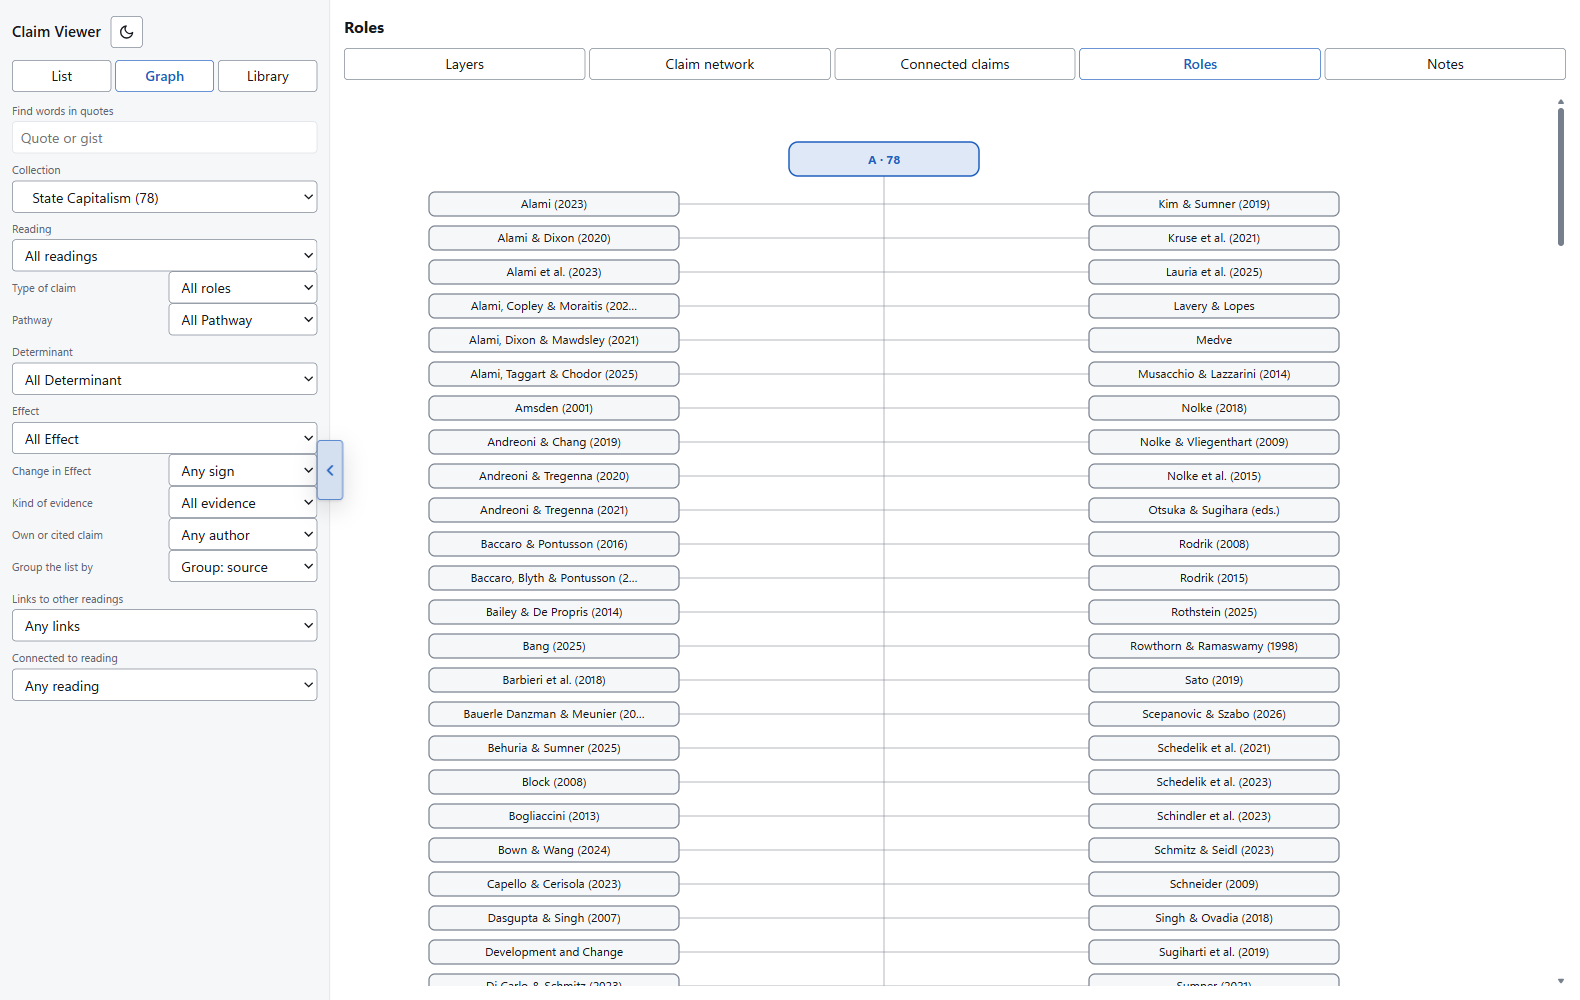
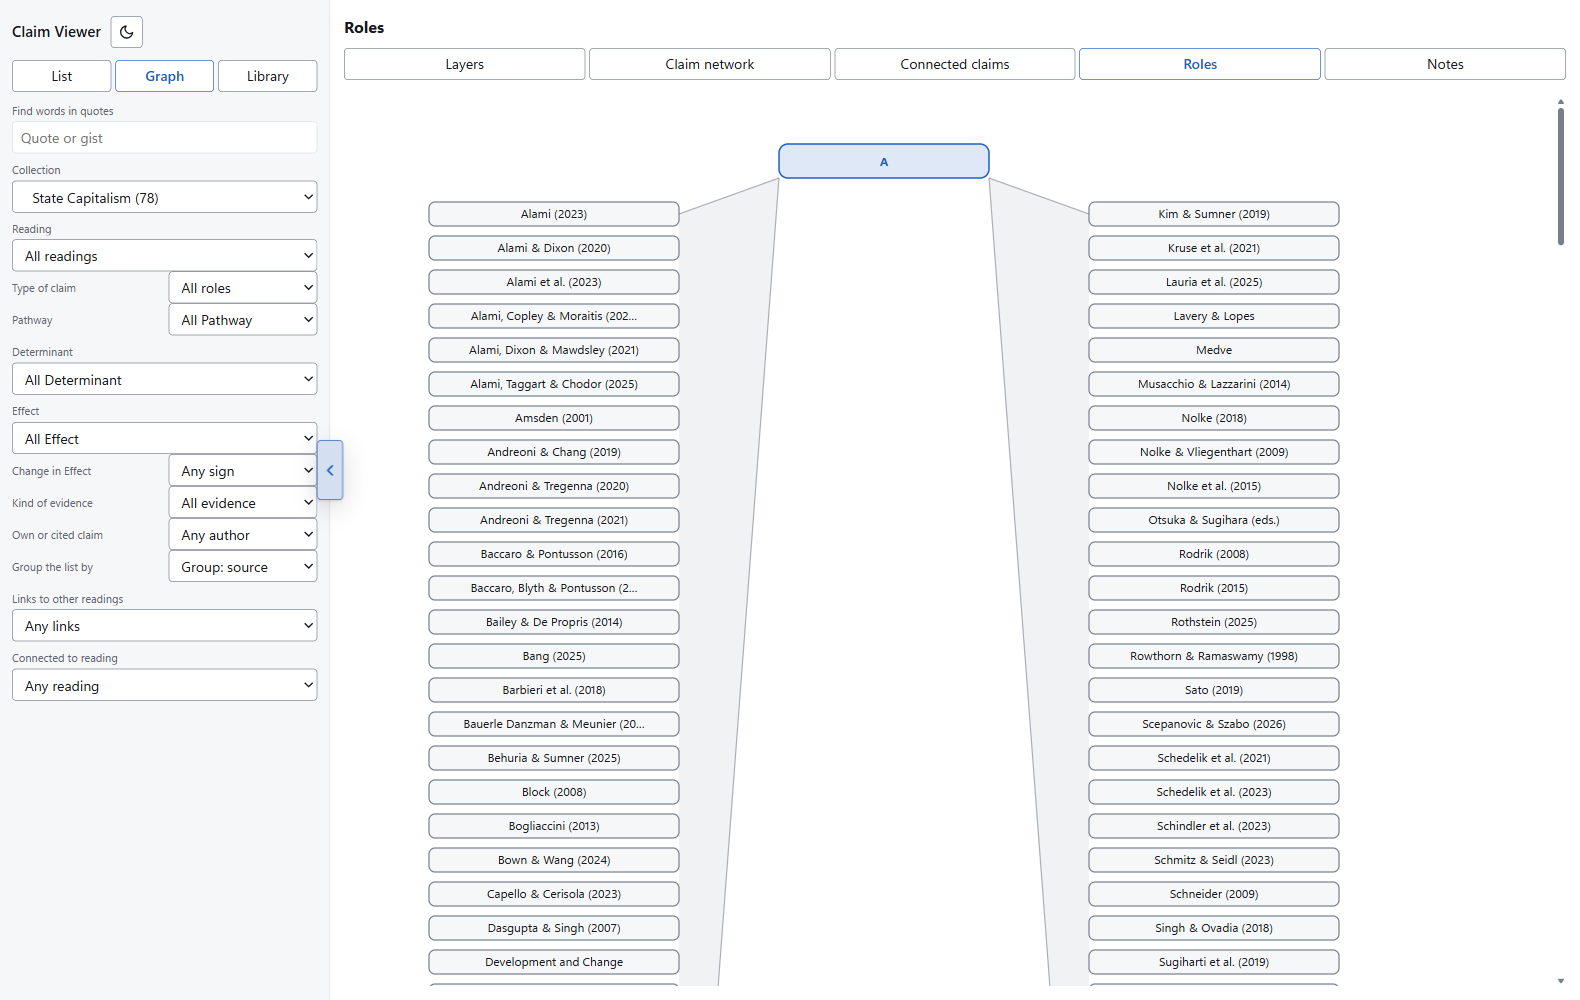
Roles graph: name-only pills, a grey wedge instead of a black band, and new roles from the editor

diff --git a/reader/index.html b/reader/index.html
@@ -114,7 +114,8 @@ body.gnet #vbg,body.gcon #vbg,body.gz #vbg,body.groles #vbg{display:none}
 #gv .le{fill:none;opacity:.85;cursor:pointer}#gv .le:hover,#gv .le.hit{opacity:1}#gv .le.dim{opacity:.12}#gv .ln{cursor:pointer}#gv .ln circle{fill:var(--panel);stroke:var(--ctl);stroke-width:2.5}#gv .ln:hover circle{stroke:var(--acc)}#gv .ln.hit circle{fill:var(--hl);stroke:var(--acc)}#gv .ln.dim{opacity:.35}#gv .lcnt{font-weight:700;paint-order:stroke;stroke:var(--bg);stroke-width:4px;pointer-events:none}#gv .lcnt.dim{opacity:.3}/* note graph: tag parents, sub-tag branches, note leaves */
 #gout .edge.taglink{stroke:var(--acc);opacity:.55;stroke-width:1.6}
 #gout .edge.branch{stroke:var(--mute);opacity:.45;stroke-width:1.2}
-#gout svg.rg .edge.branch{stroke:var(--ctl);opacity:.55;stroke-width:1}  /* many lines from one pill: keep them faint, not a black wedge */
+#gout svg.rg .edge.branch{stroke:var(--ctl);opacity:.6;stroke-width:1.2}
+#gout svg.rg .wedge{fill:var(--ctl);fill-opacity:.10;stroke:none}  /* one shape, never 78 strokes piling into black */  /* many lines from one pill: keep them faint, not a black wedge */
 #gx{display:none;overflow-x:auto;overflow-y:hidden;height:14px;margin:4px 0 8px}
 body.gz #gx{display:none!important}  /* the Layers scroller has no meaning on the note graph */
 #gx.on{display:block}
@@ -256,6 +257,12 @@ body.notes #libp{display:none}
 .zhead{display:flex;align-items:center;justify-content:space-between;gap:8px}
 #zkclose{width:28px;height:28px;display:inline-flex;align-items:center;justify-content:center;border:1px solid transparent;border-radius:var(--r);background:transparent;color:var(--mute);cursor:pointer}
 #zkclose:hover{border-color:var(--ctl);color:var(--ink)}
+#ed .rlab{cursor:text;padding:0 2px;border-bottom:1px dashed transparent;border-radius:3px}
+#ed .rlab:hover{border-bottom-color:var(--ctl)}
+#ed .rlab:focus{outline:none;border-bottom-color:var(--acc);background:var(--panel)}
+#ed .rnew{display:flex;gap:6px;margin-top:8px}
+#ed .rnew input{flex:1 1 auto;min-width:0;height:30px}
+#ed .rnew button{height:30px;padding:0 10px}
 #zkclose svg{width:16px;height:16px}
 #zklist{display:flex;flex-direction:column;gap:6px;max-height:calc(100vh - 120px);overflow:auto;padding-right:2px}
 #zklist{overflow-x:hidden}
@@ -345,7 +352,7 @@ body.notes #libp{display:none}
   <label>Source <select name="src"></select></label>
   <label>Quote <textarea name="quote" rows="5" required></textarea></label>
   <label>Gist <textarea name="gist" rows="2"></textarea></label>
-  <fieldset data-n="role"><legend id="grole">Role (tick all that apply)</legend><div class="cbs"></div></fieldset>
+  <fieldset data-n="role"><legend id="grole">Role (tick all that apply, click a name to rename it)</legend><div class="cbs"></div><div class="rnew"><input id="rnew" placeholder="New role name" aria-label="New role name"><button type="button" id="rnewb">Add role</button></div></fieldset>
   <div id="xed"></div>
   <fieldset><legend id="gpath">Pathways</legend><div class="chips" data-n="pathway"><input list="dlp" aria-label="Add a pathway"></div></fieldset><datalist id="dlp"></datalist>
   <fieldset><legend id="gfa">Axis A (Enter adds one)</legend><div class="chips" data-n="axisA"><input list="dlf" aria-label="Add axis A value"></div></fieldset>
@@ -755,25 +762,27 @@ function graph(){
   lkLegend();
   $("gout").innerHTML=(G.m==="C"?netGraph:G.m==="K"?linkGraph:G.m==="R"?roleGraph:layerGraph)(rows,sc);wireColDrag();
 }
-function roleGraph(rows){  // one band per role: the role on top, a spine down, one arm to each reading that carries it
+function roleGraph(rows){  // one band per role: the role on top, a translucent wedge down to each side's readings
   if(!rows.length)return `<p class="count">No claims in this collection. Pick another Collection on the left, or add a claim from a PDF.</p>`;
   const RN=ROLE(),tOf=src=>{const t=((DATA.sources||[]).find(x=>x.id===src)||{}).title||src;return t.replace(/\s*[\u2013\u2014-]\s*.*$/,"")||t};
-  const keys=[...Object.keys(VB.roles),...[...new Set(rows.flatMap(c=>c.role||[]))].filter(r=>!(r in VB.roles))];
+  const keys=[...new Set([...Object.keys(RN),...rows.flatMap(c=>c.role||[])])];  // a parent folder shows the roles its children use
   const bands=keys.map(k=>({k,label:RN[k]||k,srcs:new Map()}));
   rows.forEach(c=>(c.role||[]).forEach(r=>{const b=bands.find(x=>x.k===r);if(b)b.srcs.set(c.src,(b.srcs.get(c.src)||0)+1)}));
-  const live=bands.filter(b=>b.srcs.size);
-  if(!live.length)return `<p class="count">No claim carries a role yet. Tick a role in the claim editor and it appears here.</p>`;
   const clipT=(t,n=32)=>t.length>n?t.slice(0,n-1)+"\u2026":t;
-  const PAD=46,TOP=62,ROW=34,RW=250,RP=190,W=1080,cx=W/2;let y=PAD,e="",n="";
-  live.forEach(b=>{
+  const PAD=48,TOP=70,ROW=34,RW=250,RP=210,W=1080,cx=W/2;let y=PAD,e="",n="";
+  bands.forEach(b=>{
     const list=[...b.srcs.entries()].sort((a,c)=>tOf(a[0]).localeCompare(tOf(c[0])));
-    const half=Math.ceil(list.length/2),L=list.slice(0,half),R=list.slice(half);
-    const py=y+17,rowsN=Math.max(L.length,R.length);
-    n+=`<g class="tnode" data-role="${esc(b.k)}"><title>role \u00b7 ${esc(b.label)} \u00b7 ${list.length} reading${list.length===1?"":"s"}</title><rect x="${cx-RP/2}" y="${py-17}" width="${RP}" height="34" rx="9"/><text x="${cx}" y="${py+5}" text-anchor="middle">${esc(clipT(b.label,24))} \u00b7 ${list.length}</text></g>`;
-    if(rowsN){e+=`<path class="edge branch" d="M${cx} ${py+17} L${cx} ${y+TOP+(rowsN-1)*ROW}"/>`}  // one spine, so 78 arms do not pile into a black wedge
+    const half=Math.ceil(list.length/2),L=list.slice(0,half),R=list.slice(half),py=y+17,rowsN=Math.max(L.length,R.length,0);
+    n+=`<g class="tnode${list.length?"":" none"}" data-role="${esc(b.k)}"><title>${esc(b.label)} \u00b7 ${list.length?list.length+" reading"+(list.length===1?"":"s")+" carry it":"no reading yet"}</title><rect x="${cx-RP/2}" y="${py-17}" width="${RP}" height="34" rx="9"/><text x="${cx}" y="${py+5}" text-anchor="middle">${esc(clipT(b.label,26))}</text></g>`;
+    // one filled wedge per side: 78 separate strokes turned the middle of the picture into a black bar
+    const wedge=(arr,side)=>{if(!arr.length)return;
+      const xIn=side<0?cx-RP/2:cx+RP/2,xOut=side<0?cx-330+RW/2:cx+330-RW/2;
+      const y0=py+17,y1=y+TOP,yN=y+TOP+(arr.length-1)*ROW;
+      e+=`<path class="wedge" d="M${xIn} ${y0} L${xOut} ${y1} L${xOut} ${yN} L${xIn} ${y0} Z"/>`;
+      e+=`<path class="edge branch" d="M${xIn} ${y0} L${xOut} ${y1}"/><path class="edge branch" d="M${xIn} ${y0} L${xOut} ${yN}"/>`};
+    wedge(L,-1);wedge(R,1);
     const draw=(arr,side)=>arr.forEach(([src,ct],i)=>{
       const yy=y+TOP+i*ROW,px=side<0?cx-330:cx+330,t=tOf(src);
-      e+=`<path class="edge branch" d="M${cx} ${yy} L${side<0?px+RW/2:px-RW/2} ${yy}"/>`;
       n+=`<g class="snode" data-src="${esc(src)}"><title>${esc(t)} \u00b7 ${ct} claim${ct===1?"":"s"} with this role</title><rect x="${px-RW/2}" y="${yy-12}" width="${RW}" height="24" rx="6"/><text x="${px}" y="${yy+4}" text-anchor="middle">${esc(clipT(t,30))}</text></g>`});
     draw(L,-1);draw(R,1);y+=rowsN*ROW+TOP+PAD});
   const H=Math.round(y);
@@ -1174,6 +1183,14 @@ document.addEventListener("keydown",e=>{const sp=e.target.closest&&e.target.clos
   if(e.key==="Enter"){e.preventDefault();sp.blur()}
   if(e.key==="Escape"){e.preventDefault();sp.textContent=ROLE()[sp.dataset.r];sp.blur()}});
 document.addEventListener("pointerdown",e=>{const sp=e.target.closest&&e.target.closest(".rlab");if(sp){e.stopPropagation()}},true);
+const addRole=()=>{const i=$("rnew");if(!i)return;const nm=(i.value||"").replace(/\s+/g," ").trim();if(!nm)return;
+  const cid=$("col").value||"";ED.v=ED.v||{};const v=ED.v[cid]=ED.v[cid]||{};
+  if(Object.keys(ROLE()).some(k=>k.toLowerCase()===nm.toLowerCase()))return toast("That role already exists");
+  v.roleExtra=[...(v.roleExtra||[]),nm];saveED();i.value="";setCb("role",cb("role"));refresh();
+  if(document.body.classList.contains("graph")&&G.m==="R")graph();
+  toast("Role added: "+nm+" \u00b7 tick it to use it")};
+document.addEventListener("click",e=>{if(e.target.id==="rnewb"){e.preventDefault();addRole()}});
+document.addEventListener("keydown",e=>{if(e.target.id==="rnew"&&e.key==="Enter"){e.preventDefault();addRole()}});
 document.addEventListener("click",e=>{if(e.target.closest&&e.target.closest(".rlab")){e.preventDefault();e.stopPropagation()}},true);
 document.addEventListener("click",e=>{if(e.target.closest("#zkclose")){const gone=zkSel;if(gone&&zkNote(gone))zkSaveNote();zkSel=null;zkDrop(gone);zkRenderList();
   document.querySelectorAll("#zklist .zkc.sel").forEach(r=>r.classList.remove("sel"));
@@ -1459,10 +1476,10 @@ const fillReads=()=>{$("lt").innerHTML='<option value="">Any reading</option>'+s
 fillReads();
 $("dlf").innerHTML=VB.axisA_list.map(v=>`<option value="${esc(v)}">`).join("");
 $("dlo").innerHTML=VB.axisB_list.map(v=>`<option value="${esc(v)}">`).join("");
-function ROLE(){const cid=$("col").value||"",o=(ED.v&&ED.v[cid]&&ED.v[cid].role)||{},out={};  // a name per role, per collection
-  Object.keys(VB.roles).forEach(k=>out[k]=String(o[k]||k));return out}
+function ROLE(){const cid=$("col").value||"",v=(ED.v&&ED.v[cid])||{},o=v.role||{},out={};  // a name per role, per collection
+  Object.keys(VB.roles).concat(v.roleExtra||[]).forEach(k=>out[k]=String(o[k]||k));return out}
 // many-valued fields: tick boxes for fixed lists, chips for open lists, one row per connection
-const CB={role:()=>Object.keys(VB.roles).map(r=>[r,ROLE()[r]]),direction:()=>["+","-","mixed","none"].map(d=>[d,d]),evidence:()=>VB.evidence.map(e=>[e,e]),own_claim:()=>[["1","Own"],["0","Cited"]]};
+const CB={role:()=>Object.keys(ROLE()).map(r=>[r,ROLE()[r]]),direction:()=>["+","-","mixed","none"].map(d=>[d,d]),evidence:()=>VB.evidence.map(e=>[e,e]),own_claim:()=>[["1","Own"],["0","Cited"]]};
 const setCb=(n,vals)=>{const base=CB[n](),ex=vals.filter(v=>!base.some(b=>b[0]===v)).map(v=>[v,v]);  // a value outside the list stays ticked, so old data is not lost
   F.querySelector(`fieldset[data-n=${n}] .cbs`).innerHTML=base.concat(ex).map(([v,t])=>`<label class="cb"><input type="checkbox" name="${n}" value="${esc(v)}"${vals.includes(v)?" checked":""}>${n==="role"?`<span class="rlab" contenteditable="true" spellcheck="false" data-r="${esc(v)}" title="Type a new name for this role">${esc(t)}</span>`:esc(t)}</label>`).join("")};
 const cb=n=>[...F.querySelectorAll(`input[name=${n}]:checked`)].map(i=>i.value);

diff --git a/template.html b/template.html
@@ -114,7 +114,8 @@ body.gnet #vbg,body.gcon #vbg,body.gz #vbg,body.groles #vbg{display:none}
 #gv .le{fill:none;opacity:.85;cursor:pointer}#gv .le:hover,#gv .le.hit{opacity:1}#gv .le.dim{opacity:.12}#gv .ln{cursor:pointer}#gv .ln circle{fill:var(--panel);stroke:var(--ctl);stroke-width:2.5}#gv .ln:hover circle{stroke:var(--acc)}#gv .ln.hit circle{fill:var(--hl);stroke:var(--acc)}#gv .ln.dim{opacity:.35}#gv .lcnt{font-weight:700;paint-order:stroke;stroke:var(--bg);stroke-width:4px;pointer-events:none}#gv .lcnt.dim{opacity:.3}/* note graph: tag parents, sub-tag branches, note leaves */
 #gout .edge.taglink{stroke:var(--acc);opacity:.55;stroke-width:1.6}
 #gout .edge.branch{stroke:var(--mute);opacity:.45;stroke-width:1.2}
-#gout svg.rg .edge.branch{stroke:var(--ctl);opacity:.55;stroke-width:1}  /* many lines from one pill: keep them faint, not a black wedge */
+#gout svg.rg .edge.branch{stroke:var(--ctl);opacity:.6;stroke-width:1.2}
+#gout svg.rg .wedge{fill:var(--ctl);fill-opacity:.10;stroke:none}  /* one shape, never 78 strokes piling into black */  /* many lines from one pill: keep them faint, not a black wedge */
 #gx{display:none;overflow-x:auto;overflow-y:hidden;height:14px;margin:4px 0 8px}
 body.gz #gx{display:none!important}  /* the Layers scroller has no meaning on the note graph */
 #gx.on{display:block}
@@ -256,6 +257,12 @@ body.notes #libp{display:none}
 .zhead{display:flex;align-items:center;justify-content:space-between;gap:8px}
 #zkclose{width:28px;height:28px;display:inline-flex;align-items:center;justify-content:center;border:1px solid transparent;border-radius:var(--r);background:transparent;color:var(--mute);cursor:pointer}
 #zkclose:hover{border-color:var(--ctl);color:var(--ink)}
+#ed .rlab{cursor:text;padding:0 2px;border-bottom:1px dashed transparent;border-radius:3px}
+#ed .rlab:hover{border-bottom-color:var(--ctl)}
+#ed .rlab:focus{outline:none;border-bottom-color:var(--acc);background:var(--panel)}
+#ed .rnew{display:flex;gap:6px;margin-top:8px}
+#ed .rnew input{flex:1 1 auto;min-width:0;height:30px}
+#ed .rnew button{height:30px;padding:0 10px}
 #zkclose svg{width:16px;height:16px}
 #zklist{display:flex;flex-direction:column;gap:6px;max-height:calc(100vh - 120px);overflow:auto;padding-right:2px}
 #zklist{overflow-x:hidden}
@@ -345,7 +352,7 @@ body.notes #libp{display:none}
   <label>Source <select name="src"></select></label>
   <label>Quote <textarea name="quote" rows="5" required></textarea></label>
   <label>Gist <textarea name="gist" rows="2"></textarea></label>
-  <fieldset data-n="role"><legend id="grole">Role (tick all that apply)</legend><div class="cbs"></div></fieldset>
+  <fieldset data-n="role"><legend id="grole">Role (tick all that apply, click a name to rename it)</legend><div class="cbs"></div><div class="rnew"><input id="rnew" placeholder="New role name" aria-label="New role name"><button type="button" id="rnewb">Add role</button></div></fieldset>
   <div id="xed"></div>
   <fieldset><legend id="gpath">Pathways</legend><div class="chips" data-n="pathway"><input list="dlp" aria-label="Add a pathway"></div></fieldset><datalist id="dlp"></datalist>
   <fieldset><legend id="gfa">Axis A (Enter adds one)</legend><div class="chips" data-n="axisA"><input list="dlf" aria-label="Add axis A value"></div></fieldset>
@@ -755,25 +762,27 @@ function graph(){
   lkLegend();
   $("gout").innerHTML=(G.m==="C"?netGraph:G.m==="K"?linkGraph:G.m==="R"?roleGraph:layerGraph)(rows,sc);wireColDrag();
 }
-function roleGraph(rows){  // one band per role: the role on top, a spine down, one arm to each reading that carries it
+function roleGraph(rows){  // one band per role: the role on top, a translucent wedge down to each side's readings
   if(!rows.length)return `<p class="count">No claims in this collection. Pick another Collection on the left, or add a claim from a PDF.</p>`;
   const RN=ROLE(),tOf=src=>{const t=((DATA.sources||[]).find(x=>x.id===src)||{}).title||src;return t.replace(/\s*[\u2013\u2014-]\s*.*$/,"")||t};
-  const keys=[...Object.keys(VB.roles),...[...new Set(rows.flatMap(c=>c.role||[]))].filter(r=>!(r in VB.roles))];
+  const keys=[...new Set([...Object.keys(RN),...rows.flatMap(c=>c.role||[])])];  // a parent folder shows the roles its children use
   const bands=keys.map(k=>({k,label:RN[k]||k,srcs:new Map()}));
   rows.forEach(c=>(c.role||[]).forEach(r=>{const b=bands.find(x=>x.k===r);if(b)b.srcs.set(c.src,(b.srcs.get(c.src)||0)+1)}));
-  const live=bands.filter(b=>b.srcs.size);
-  if(!live.length)return `<p class="count">No claim carries a role yet. Tick a role in the claim editor and it appears here.</p>`;
   const clipT=(t,n=32)=>t.length>n?t.slice(0,n-1)+"\u2026":t;
-  const PAD=46,TOP=62,ROW=34,RW=250,RP=190,W=1080,cx=W/2;let y=PAD,e="",n="";
-  live.forEach(b=>{
+  const PAD=48,TOP=70,ROW=34,RW=250,RP=210,W=1080,cx=W/2;let y=PAD,e="",n="";
+  bands.forEach(b=>{
     const list=[...b.srcs.entries()].sort((a,c)=>tOf(a[0]).localeCompare(tOf(c[0])));
-    const half=Math.ceil(list.length/2),L=list.slice(0,half),R=list.slice(half);
-    const py=y+17,rowsN=Math.max(L.length,R.length);
-    n+=`<g class="tnode" data-role="${esc(b.k)}"><title>role \u00b7 ${esc(b.label)} \u00b7 ${list.length} reading${list.length===1?"":"s"}</title><rect x="${cx-RP/2}" y="${py-17}" width="${RP}" height="34" rx="9"/><text x="${cx}" y="${py+5}" text-anchor="middle">${esc(clipT(b.label,24))} \u00b7 ${list.length}</text></g>`;
-    if(rowsN){e+=`<path class="edge branch" d="M${cx} ${py+17} L${cx} ${y+TOP+(rowsN-1)*ROW}"/>`}  // one spine, so 78 arms do not pile into a black wedge
+    const half=Math.ceil(list.length/2),L=list.slice(0,half),R=list.slice(half),py=y+17,rowsN=Math.max(L.length,R.length,0);
+    n+=`<g class="tnode${list.length?"":" none"}" data-role="${esc(b.k)}"><title>${esc(b.label)} \u00b7 ${list.length?list.length+" reading"+(list.length===1?"":"s")+" carry it":"no reading yet"}</title><rect x="${cx-RP/2}" y="${py-17}" width="${RP}" height="34" rx="9"/><text x="${cx}" y="${py+5}" text-anchor="middle">${esc(clipT(b.label,26))}</text></g>`;
+    // one filled wedge per side: 78 separate strokes turned the middle of the picture into a black bar
+    const wedge=(arr,side)=>{if(!arr.length)return;
+      const xIn=side<0?cx-RP/2:cx+RP/2,xOut=side<0?cx-330+RW/2:cx+330-RW/2;
+      const y0=py+17,y1=y+TOP,yN=y+TOP+(arr.length-1)*ROW;
+      e+=`<path class="wedge" d="M${xIn} ${y0} L${xOut} ${y1} L${xOut} ${yN} L${xIn} ${y0} Z"/>`;
+      e+=`<path class="edge branch" d="M${xIn} ${y0} L${xOut} ${y1}"/><path class="edge branch" d="M${xIn} ${y0} L${xOut} ${yN}"/>`};
+    wedge(L,-1);wedge(R,1);
     const draw=(arr,side)=>arr.forEach(([src,ct],i)=>{
       const yy=y+TOP+i*ROW,px=side<0?cx-330:cx+330,t=tOf(src);
-      e+=`<path class="edge branch" d="M${cx} ${yy} L${side<0?px+RW/2:px-RW/2} ${yy}"/>`;
       n+=`<g class="snode" data-src="${esc(src)}"><title>${esc(t)} \u00b7 ${ct} claim${ct===1?"":"s"} with this role</title><rect x="${px-RW/2}" y="${yy-12}" width="${RW}" height="24" rx="6"/><text x="${px}" y="${yy+4}" text-anchor="middle">${esc(clipT(t,30))}</text></g>`});
     draw(L,-1);draw(R,1);y+=rowsN*ROW+TOP+PAD});
   const H=Math.round(y);
@@ -1174,6 +1183,14 @@ document.addEventListener("keydown",e=>{const sp=e.target.closest&&e.target.clos
   if(e.key==="Enter"){e.preventDefault();sp.blur()}
   if(e.key==="Escape"){e.preventDefault();sp.textContent=ROLE()[sp.dataset.r];sp.blur()}});
 document.addEventListener("pointerdown",e=>{const sp=e.target.closest&&e.target.closest(".rlab");if(sp){e.stopPropagation()}},true);
+const addRole=()=>{const i=$("rnew");if(!i)return;const nm=(i.value||"").replace(/\s+/g," ").trim();if(!nm)return;
+  const cid=$("col").value||"";ED.v=ED.v||{};const v=ED.v[cid]=ED.v[cid]||{};
+  if(Object.keys(ROLE()).some(k=>k.toLowerCase()===nm.toLowerCase()))return toast("That role already exists");
+  v.roleExtra=[...(v.roleExtra||[]),nm];saveED();i.value="";setCb("role",cb("role"));refresh();
+  if(document.body.classList.contains("graph")&&G.m==="R")graph();
+  toast("Role added: "+nm+" \u00b7 tick it to use it")};
+document.addEventListener("click",e=>{if(e.target.id==="rnewb"){e.preventDefault();addRole()}});
+document.addEventListener("keydown",e=>{if(e.target.id==="rnew"&&e.key==="Enter"){e.preventDefault();addRole()}});
 document.addEventListener("click",e=>{if(e.target.closest&&e.target.closest(".rlab")){e.preventDefault();e.stopPropagation()}},true);
 document.addEventListener("click",e=>{if(e.target.closest("#zkclose")){const gone=zkSel;if(gone&&zkNote(gone))zkSaveNote();zkSel=null;zkDrop(gone);zkRenderList();
   document.querySelectorAll("#zklist .zkc.sel").forEach(r=>r.classList.remove("sel"));
@@ -1459,10 +1476,10 @@ const fillReads=()=>{$("lt").innerHTML='<option value="">Any reading</option>'+s
 fillReads();
 $("dlf").innerHTML=VB.axisA_list.map(v=>`<option value="${esc(v)}">`).join("");
 $("dlo").innerHTML=VB.axisB_list.map(v=>`<option value="${esc(v)}">`).join("");
-function ROLE(){const cid=$("col").value||"",o=(ED.v&&ED.v[cid]&&ED.v[cid].role)||{},out={};  // a name per role, per collection
-  Object.keys(VB.roles).forEach(k=>out[k]=String(o[k]||k));return out}
+function ROLE(){const cid=$("col").value||"",v=(ED.v&&ED.v[cid])||{},o=v.role||{},out={};  // a name per role, per collection
+  Object.keys(VB.roles).concat(v.roleExtra||[]).forEach(k=>out[k]=String(o[k]||k));return out}
 // many-valued fields: tick boxes for fixed lists, chips for open lists, one row per connection
-const CB={role:()=>Object.keys(VB.roles).map(r=>[r,ROLE()[r]]),direction:()=>["+","-","mixed","none"].map(d=>[d,d]),evidence:()=>VB.evidence.map(e=>[e,e]),own_claim:()=>[["1","Own"],["0","Cited"]]};
+const CB={role:()=>Object.keys(ROLE()).map(r=>[r,ROLE()[r]]),direction:()=>["+","-","mixed","none"].map(d=>[d,d]),evidence:()=>VB.evidence.map(e=>[e,e]),own_claim:()=>[["1","Own"],["0","Cited"]]};
 const setCb=(n,vals)=>{const base=CB[n](),ex=vals.filter(v=>!base.some(b=>b[0]===v)).map(v=>[v,v]);  // a value outside the list stays ticked, so old data is not lost
   F.querySelector(`fieldset[data-n=${n}] .cbs`).innerHTML=base.concat(ex).map(([v,t])=>`<label class="cb"><input type="checkbox" name="${n}" value="${esc(v)}"${vals.includes(v)?" checked":""}>${n==="role"?`<span class="rlab" contenteditable="true" spellcheck="false" data-r="${esc(v)}" title="Type a new name for this role">${esc(t)}</span>`:esc(t)}</label>`).join("")};
 const cb=n=>[...F.querySelectorAll(`input[name=${n}]:checked`)].map(i=>i.value);
